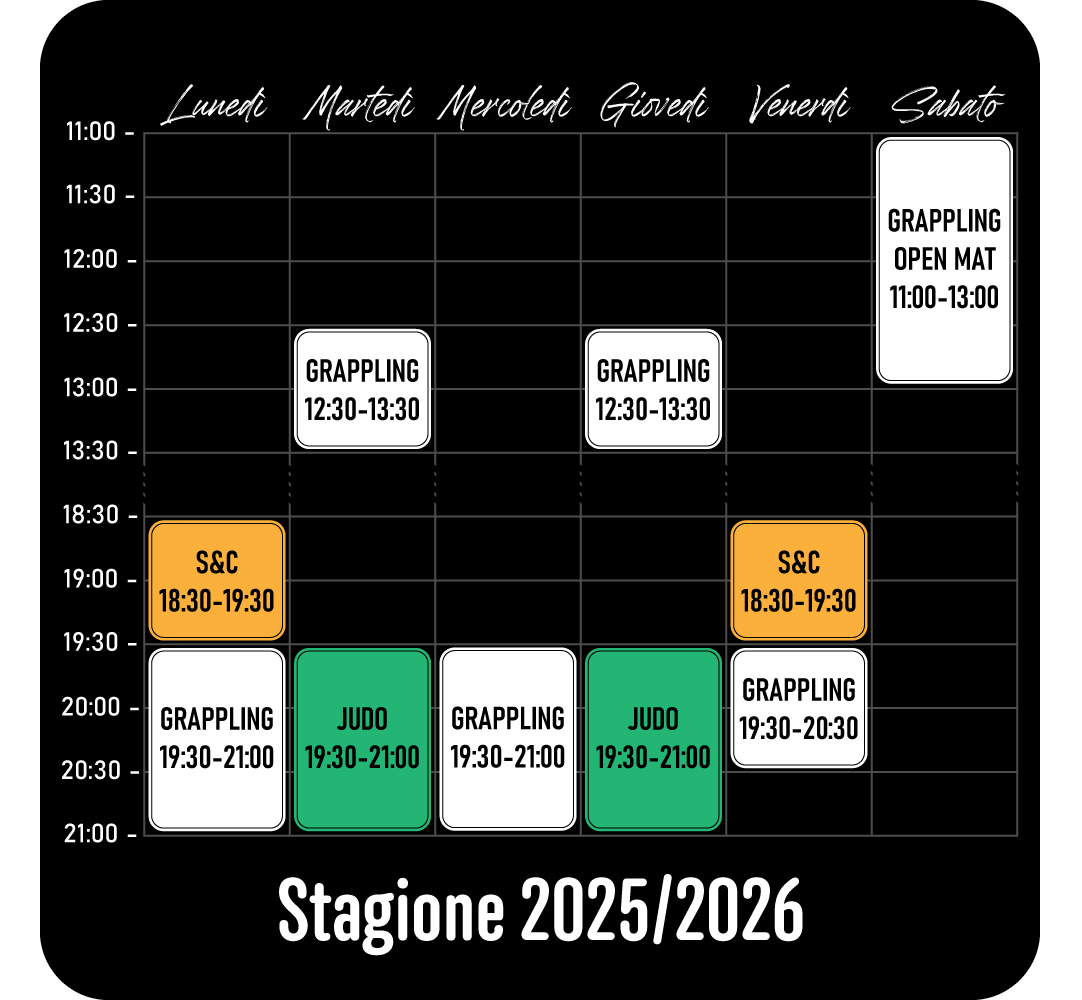
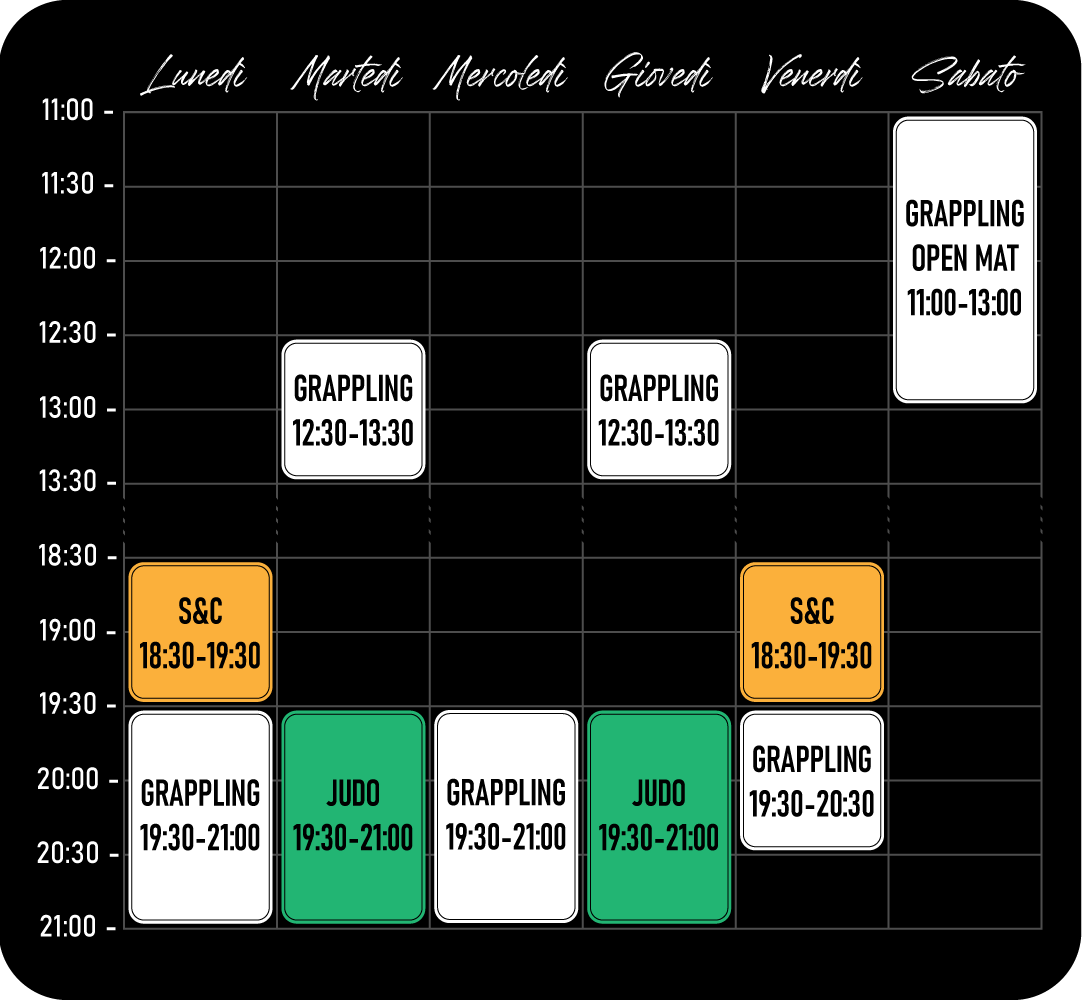
mods

diff --git a/src/content/config.ts b/src/content/config.ts
@@ -14,6 +14,7 @@ const jsonDataCollection = defineCollection({
     githubText: z.string(),
     portfolioImage: z.string(),
     timetableImage: z.string(),
+    timetableTitle: z.string(),
     email: z.string().email(),
     linkedin: z.string().url(),
     instagram: z.string().url(),
